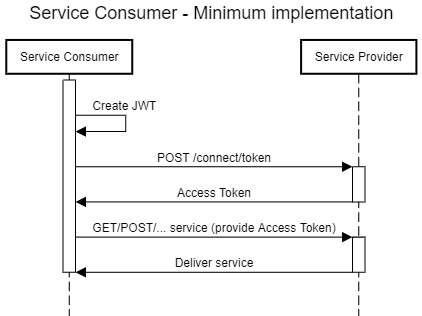
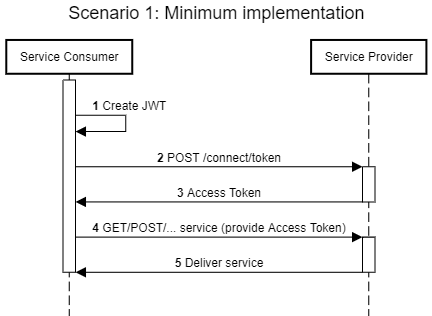
Resolved comments on PR

diff --git a/service-consumer/getting-started.rst b/service-consumer/getting-started.rst
@@ -29,9 +29,11 @@ Every iSHARE Service Provider has implemented 2 standardised endpoints:
 * Access Token (M2M)
 * Capabilities
 
-As an iSHARE Service Consumer, a minimum implementation requires connecting to the Access Token endpoint. For more information about requesting an Access Token, refer to the section about the :ref:`Access Token Endpoint<refM2MToken>`. The request includes an iSHARE JWT, which is documented :ref:`here<refJWT>`. After obtaining an Access Token, this token can be used to consume services from the Service Provider. These services themselves are not standardised by iSHARE. For your implementation, choose one of the following scenarios.
+As an iSHARE Service Consumer, a minimum implementation requires connecting to the Access Token endpoint. For more information about requesting an Access Token, refer to the section about the :ref:`Access Token Endpoint<refM2MToken>`. The request includes an iSHARE JWT, which is documented :ref:`here<refJWT>`. After obtaining an Access Token, this token can be used to consume services from the Service Provider. These services themselves are not standardised by iSHARE. 
 
-Minimum implementation
+For your implementation, choose one of the following scenarios. A combination of scenarios is possible.
+
+Scenario 1: Minimum implementation
 ~~~~~~~~~~~~~~~~~~~~~~
 The endpoint and specifications of the service that will be consumed are already available. Delegation evidence is acquired by the Service Provider.
 
@@ -42,20 +44,21 @@ The endpoint and specifications of the service that will be consumed are already
 
 .. image:: resources/service-consumer-scenario-1.png
 
-Optional implementation using the /capabilities endpoint
-~~~~~~~~~~~~~~~~~~~~~~~~~~~~~~~~~~~~~~~~~~~~~~~~~~~~~~~~
-The endpoint of the service that will be consumed is obtained through the /capabilities endpoint. Further specifications are assumed already available. Delegation evidence is acquired by the Service Provider.
+Scenario 2: Using the /capabilities endpoint to discover services
+~~~~~~~~~~~~~~~~~~~~~~~~~~~~~~~~~~~~~~~~~~~~~~~~~~~~~~~~~~~~~~~~~
+The endpoints of the service that will be consumed are obtained through the /capabilities endpoint. Further specifications are assumed already available. Delegation evidence is acquired by the Service Provider.
 
 *Connection with the Service Provider*
 
+#. Consume /capabilities endpoint to discover where to get an Access Token
 #. :ref:`Get Access Token<refM2MToken>`
-#. Use Access Token to consume /capabilities endpoint
-#. Use result of /capabilities endpoint + Access Token to consume service
+#. Use Access Token to consume /capabilities endpoint to discover where to consume services
+#. Use result of /capabilities endpoint + Access Token to consume services
 
 .. image:: resources/service-consumer-scenario-2.png
 
-Full implementation, with extra compliancy checks
-~~~~~~~~~~~~~~~~~~~~~~~~~~~~~~~~~~~~~~~~~~~~~~~~~
+Scenario 3: Perform prechecks on the Service Provider
+~~~~~~~~~~~~~~~~~~~~~~~~~~~~~~~~~~~~~~~~~~~~~~~~~~~~~
 If the Service Consumer provides data to a Service Provider (i.e. data that belongs to an Entitled Party), for full legal coverage it is advised to check adherence of the Service Provider, before a service is consumed. The implementation would then be as follows.
 
 *Connection with iSHARE Satellite*
@@ -71,8 +74,8 @@ If the Service Consumer provides data to a Service Provider (i.e. data that belo
 
 .. image:: resources/service-consumer-scenario-3.png
 
-Full implementation, providing delegation evidence
-~~~~~~~~~~~~~~~~~~~~~~~~~~~~~~~~~~~~~~~~~~~~~~~~~~
+Scenario 4: Full implementation, with prechecks and delegation evidence
+~~~~~~~~~~~~~~~~~~~~~~~~~~~~~~~~~~~~~~~~~~~~~~~~~~~~~~~~~~~~~~~~~~~~~~~
 If the Service Consumer wishes to provide delegation evidence to the Service Provider, the minimum implementation is as follows.
 
 *Connection with iSHARE Satellite*
